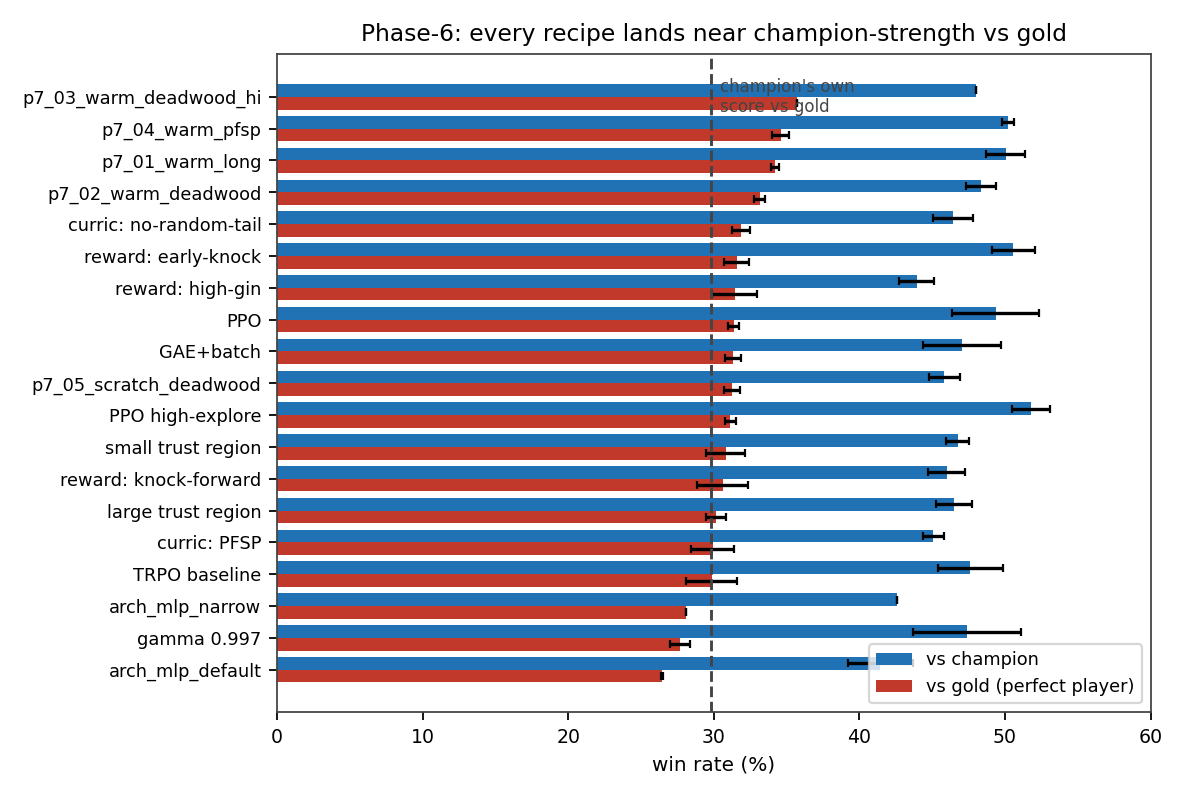
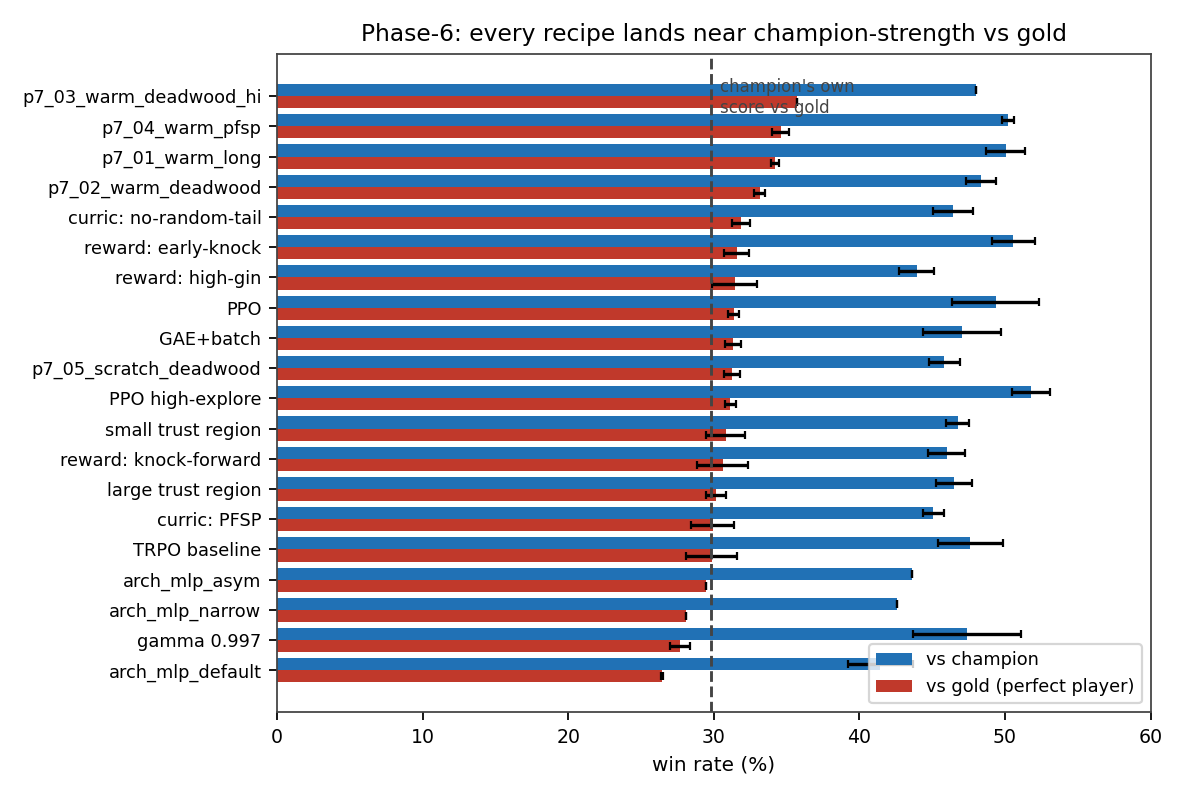
Phase-6 sweep: curriculum/algorithm/reward results + docs (2026-06-27T06:10Z)

Changed region(s): [[0.0312, 0.0938, 0.875, 0.8438], [0.0312, 0.0938, 0.0938, 0.125], [0.0938, 0.8125, 0.125, 0.8438]]

diff --git a/docs/index.html b/docs/index.html
@@ -87,7 +87,7 @@ ol li,ul li{margin:4px 0;}
   <div class="kpibar">
     <div class="k"><div class="v">34%</div><div class="l">best agent vs the<br/>perfect player</div></div>
     <div class="k"><div class="v">&lt;2%</div><div class="l">how often the perfect<br/>player gins</div></div>
-    <div class="k"><div class="v">42+</div><div class="l">controlled training<br/>runs in the sweeps</div></div>
+    <div class="k"><div class="v">43+</div><div class="l">controlled training<br/>runs in the sweeps</div></div>
     <div class="k"><div class="v">62&times;</div><div class="l">faster LLM serving<br/>(scratch vs NFS)</div></div>
   </div>
   <div class="links">

diff --git a/sweep/curriculum/_arch_summary.md b/sweep/curriculum/_arch_summary.md
@@ -1,11 +1,12 @@
 # Phase-8 architecture sweep — evaluation vs the fixed expert
 
-_3 runs finished across 2 architectures. Win-rate is vs the fixed deterministic expert (benchmark-only)._
+_4 runs finished across 3 architectures. Win-rate is vs the fixed deterministic expert (benchmark-only)._
 
 ## Per architecture (mean over seeds)
 
 | architecture | n | win% vs expert | std | Δ vs MLP anchor |
 |---|---|---|---|---|
+| arch_mlp_asym | 1 | 0.295 | 0.000 | +0.030 |
 | arch_mlp_narrow | 1 | 0.281 | 0.000 | +0.017 |
 | arch_mlp_default | 2 | 0.265 | 0.001 | +0.000 |
 
@@ -13,6 +14,7 @@ _3 runs finished across 2 architectures. Win-rate is vs the fixed deterministic 
 
 | run | arch | act | net | seed | win% vs expert | gin% | mean len | vs champ | vs random | secs |
 |---|---|---|---|---|---|---|---|---|---|---|
+| arch_mlp_asym_s0 | mlp | tanh | [128, 64] | 0 | 0.295 | 0.010 | 34.18 | 0.436 | 0.992 | 8211 |
 | arch_mlp_narrow_s0 | mlp | tanh | [128, 64] | 0 | 0.281 | 0.002 | 34.18 | 0.426 | 0.988 | 8623 |
 | arch_mlp_default_s1 | mlp | tanh | [256,128] | 1 | 0.265 | 0.004 | 35.07 | 0.392 | 0.986 | 8668 |
 | arch_mlp_default_s0 | mlp | tanh | [256,128] | 0 | 0.264 | 0.006 | 33.81 | 0.437 | 0.985 | 8189 |